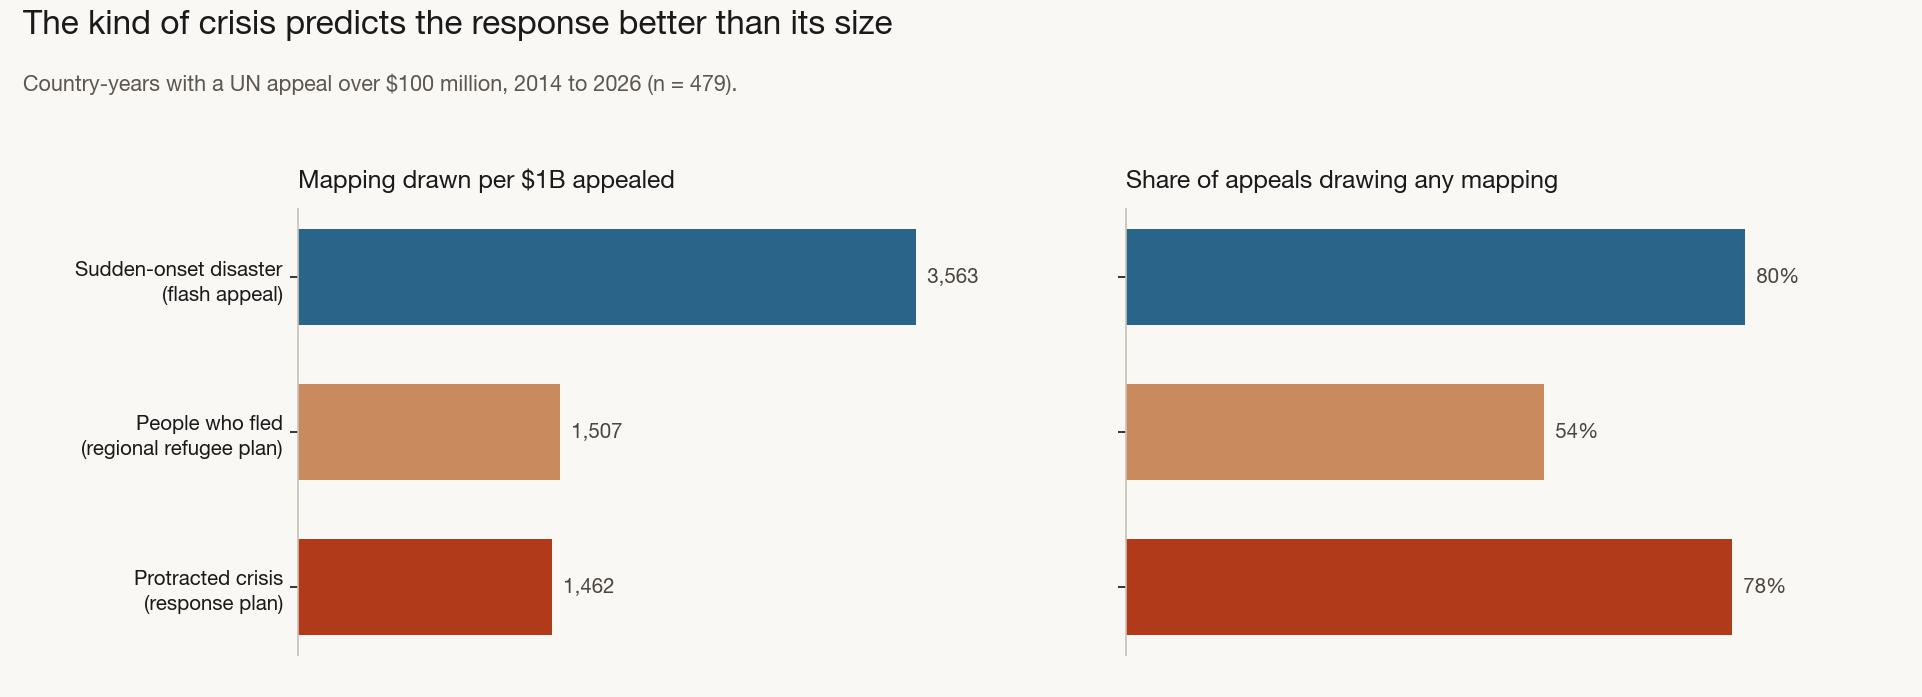
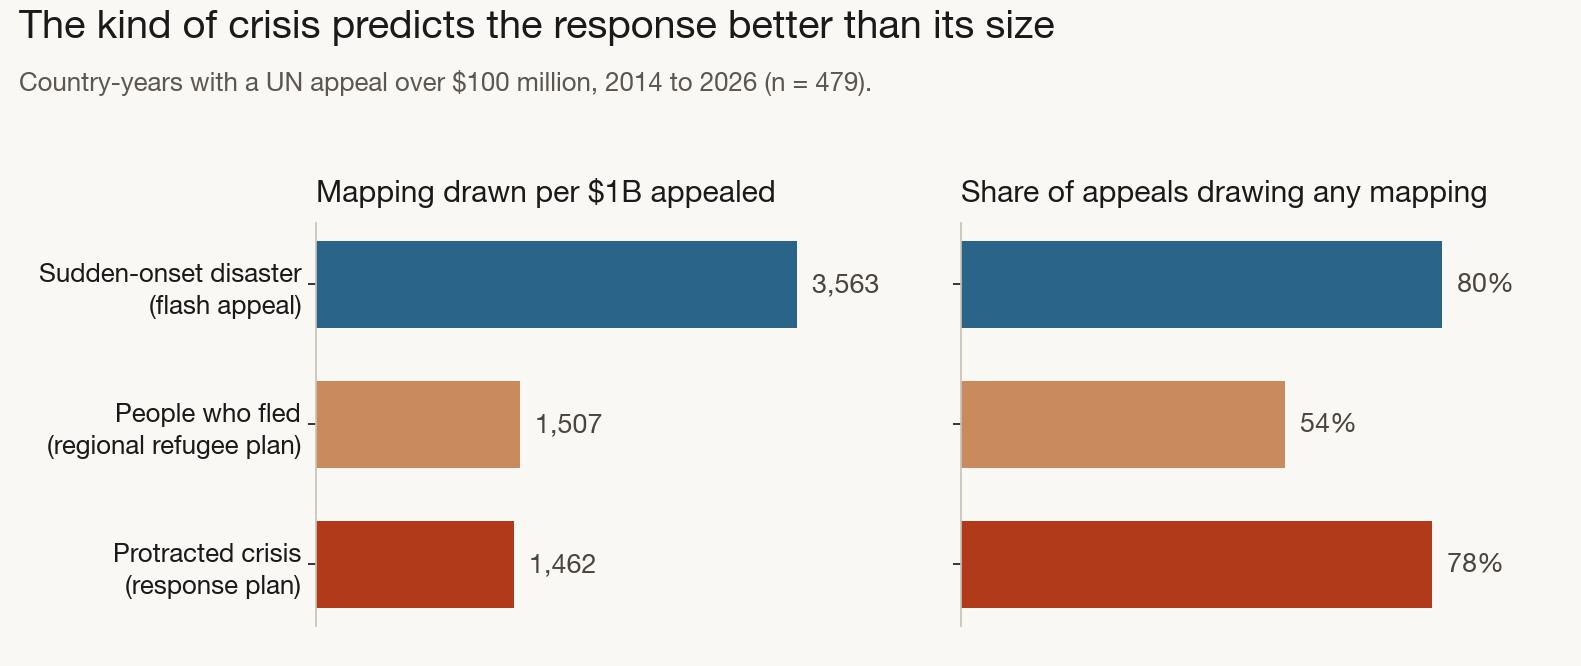
readable figures and a working Tasking Manager link
Claude-Session: https://claude.ai/code/session_01GCZVs7jCoUCXH6bJZoBDh2

diff --git a/docs/work/hot-mapping-gap.html b/docs/work/hot-mapping-gap.html
@@ -277,7 +277,7 @@
       <a class="btn btn-primary" href="https://github.com/dulcetberg/hot-mapping-gap" target="_blank" rel="noopener">
         View the code <span class="visually-hidden">(opens in a new tab)</span>
       </a>
-      <a class="btn btn-outline" href="https://tasking-manager.hotosm.org/" target="_blank" rel="noopener">
+      <a class="btn btn-outline" href="https://tasks.hotosm.org/" target="_blank" rel="noopener">
         HOT Tasking Manager <span class="visually-hidden">(opens in a new tab)</span>
       </a>
     </div>
